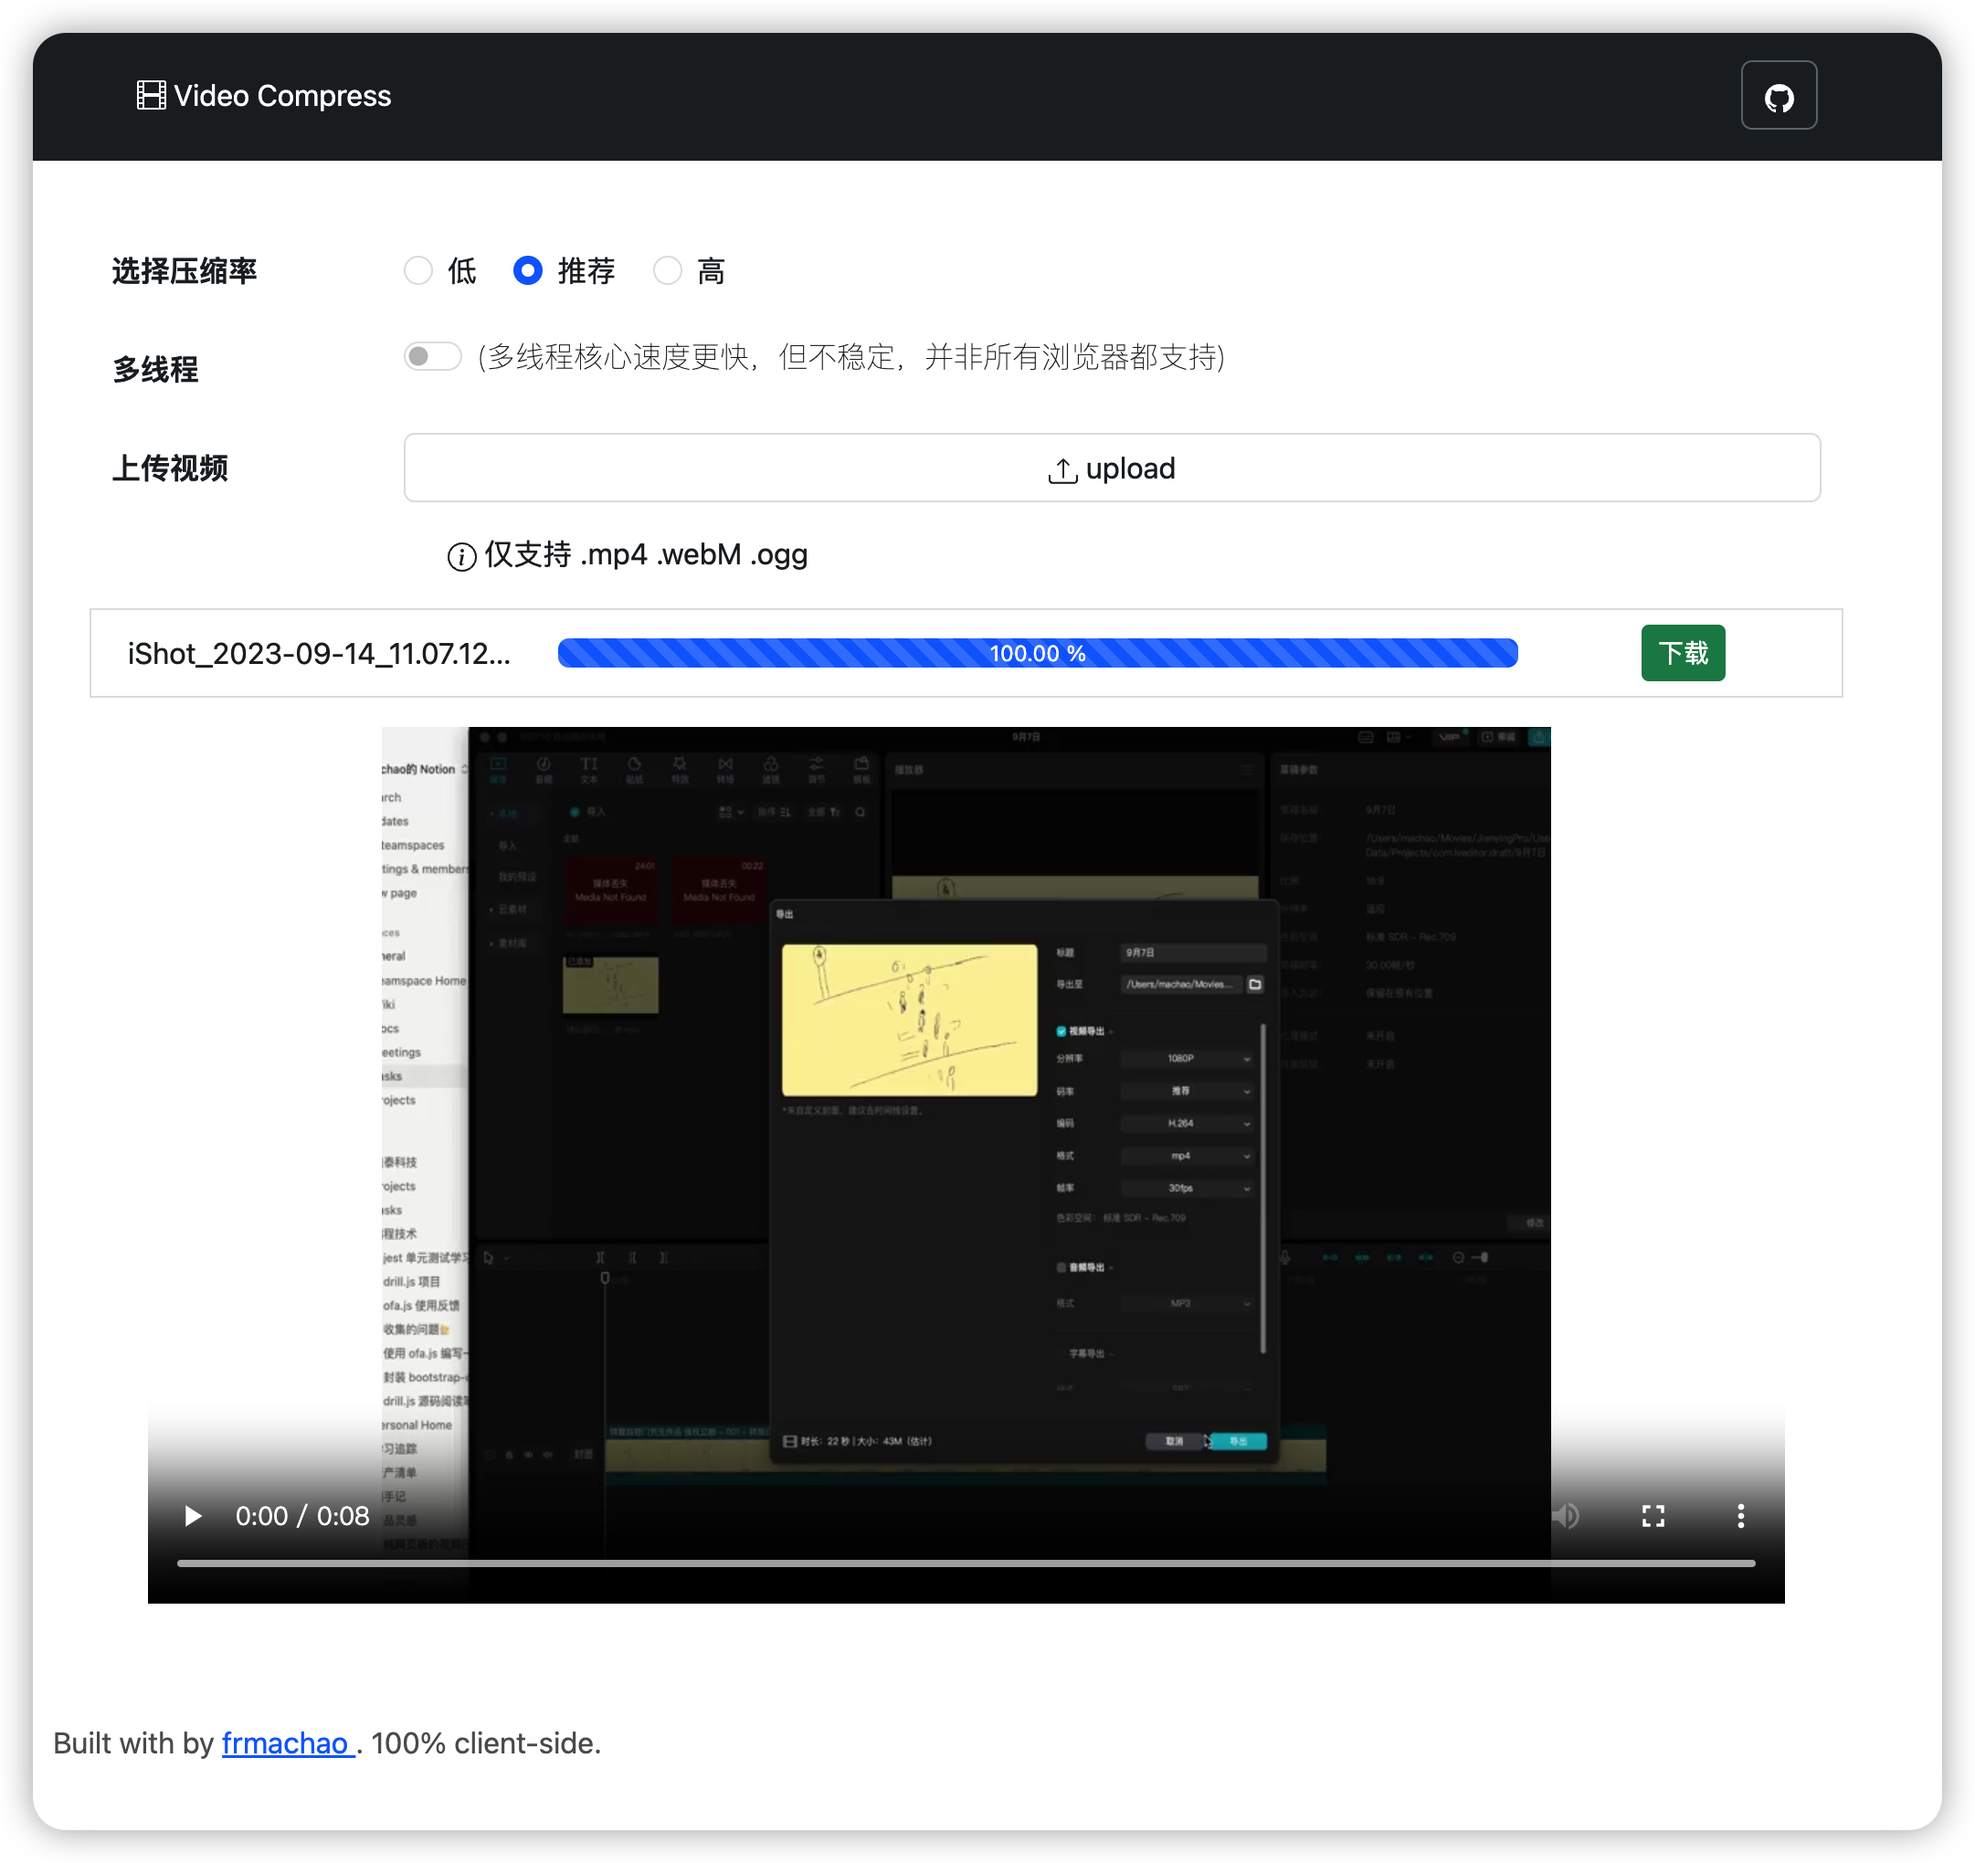
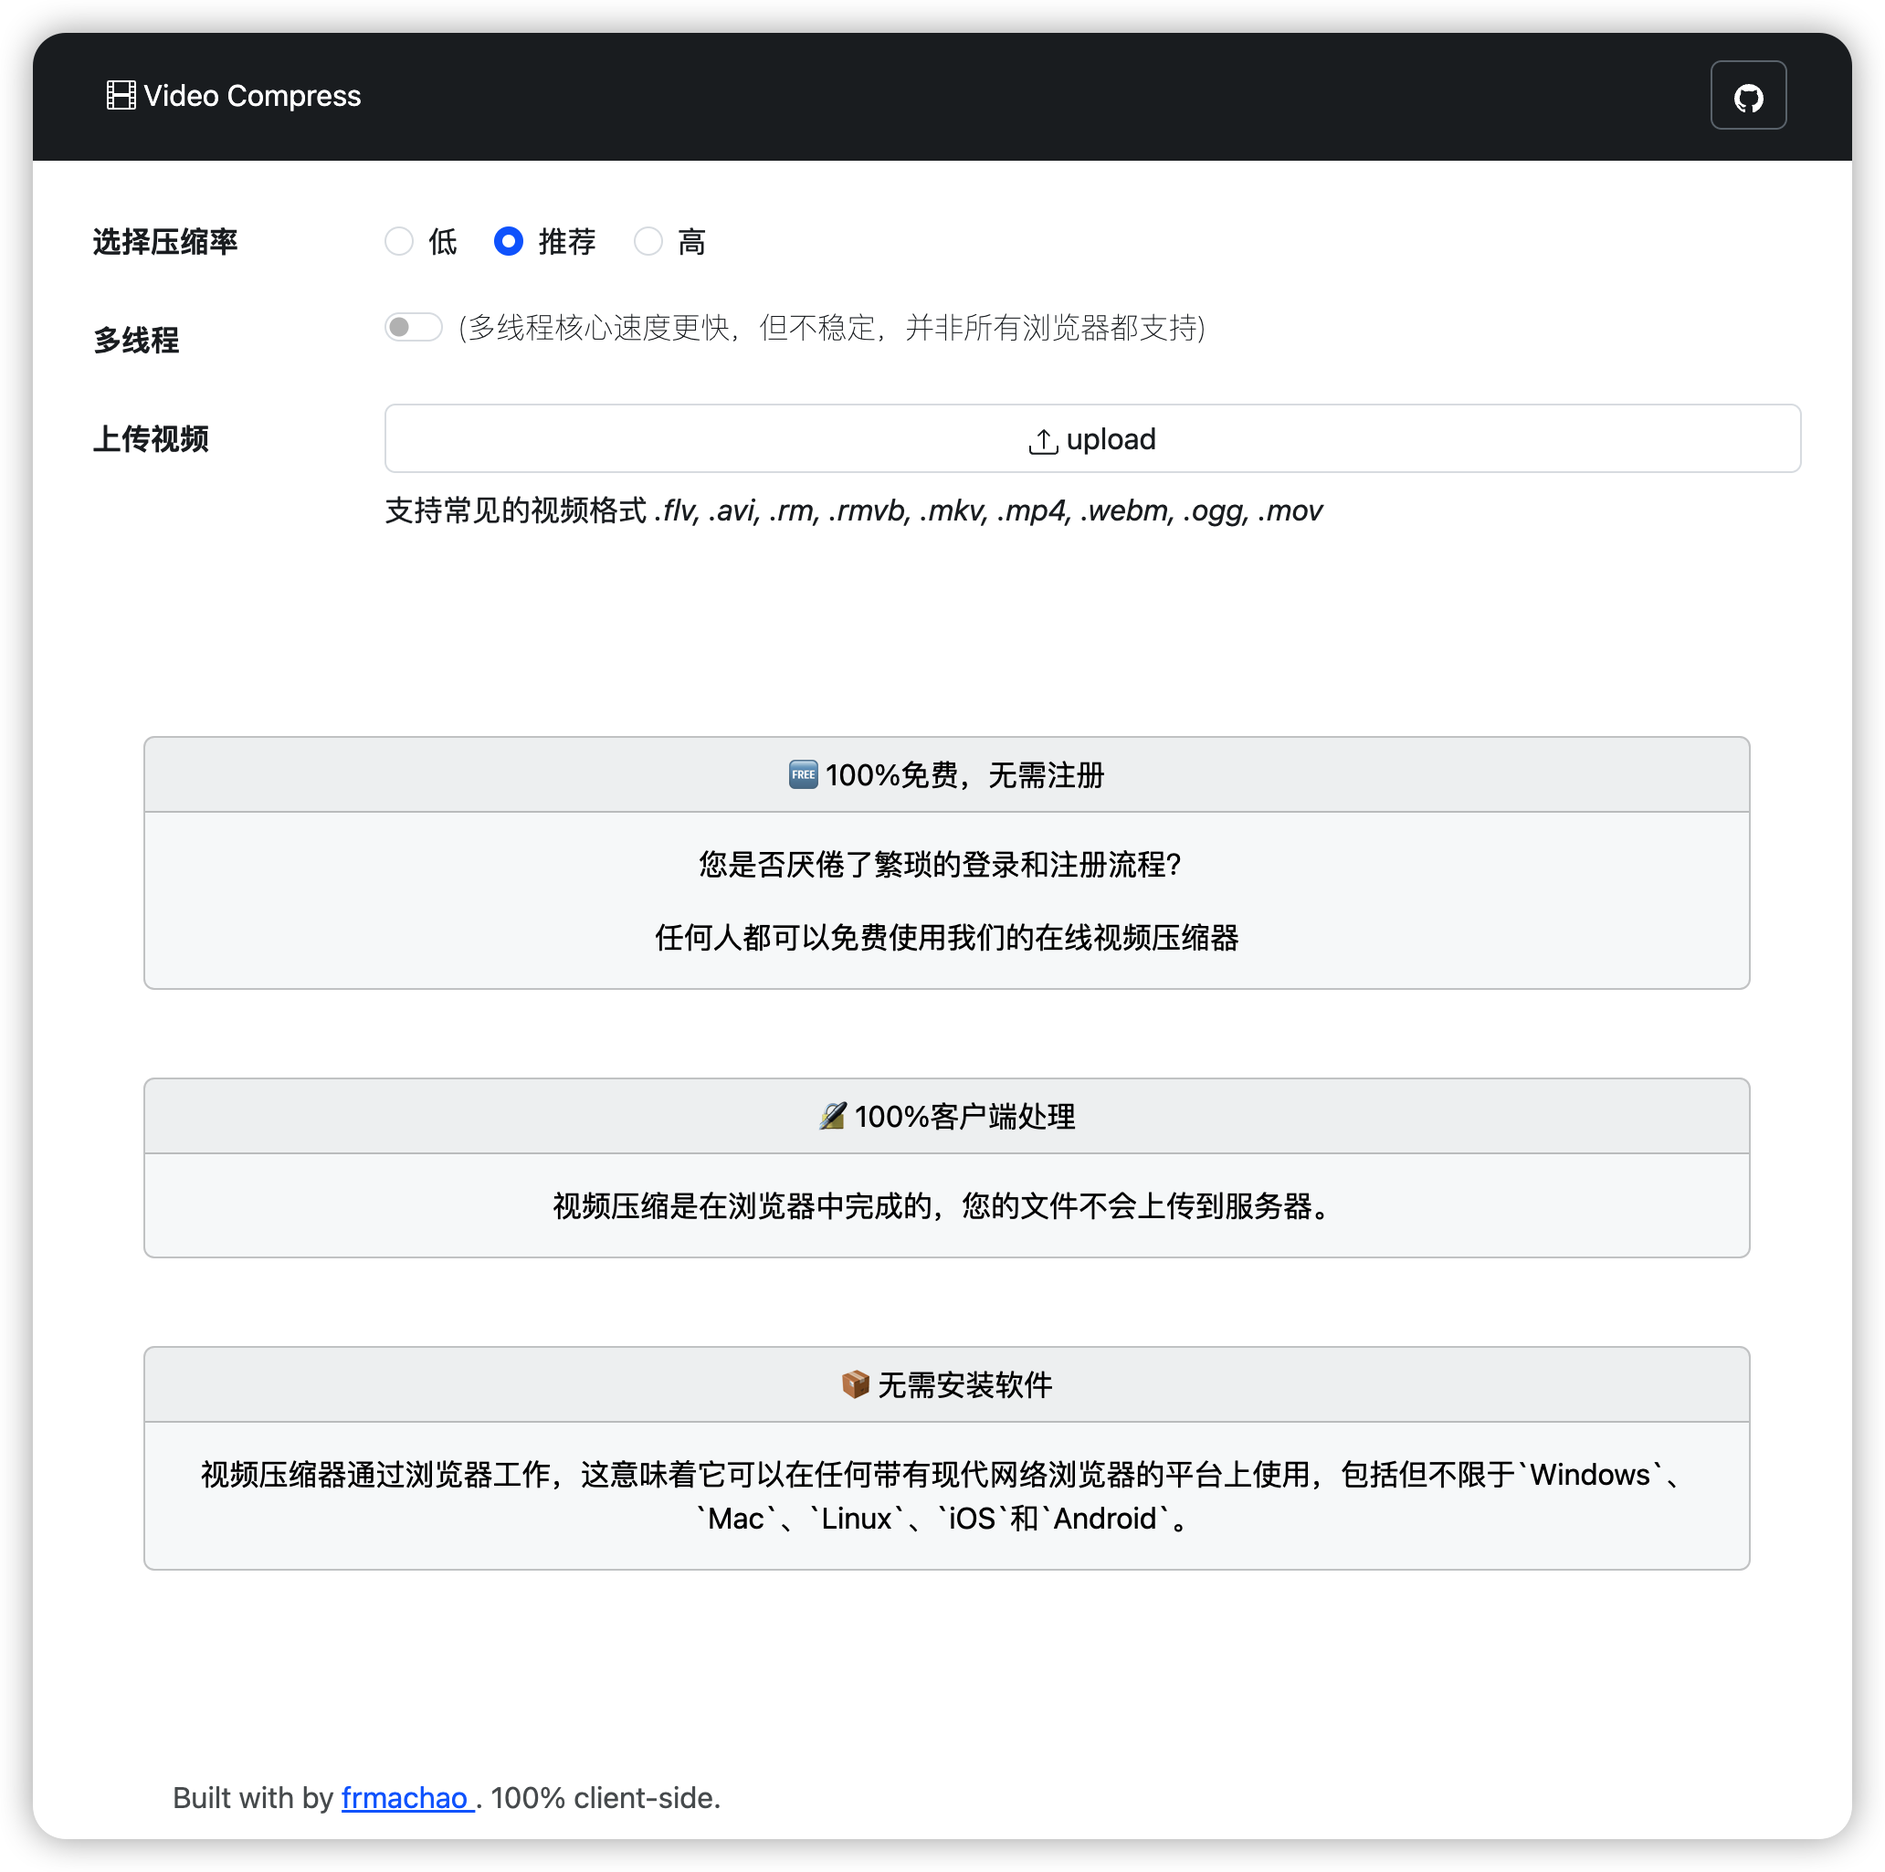
chore: add introduction to the features

diff --git a/index.html b/index.html
@@ -134,8 +134,8 @@
                 </div>
             </div>
 
-            <div style="min-height: 20rem;" class="row m-2">
-                <div hidden  id="output-tips" class="col-12 mb-2">
+            <div style="min-height: 5rem;" class="row m-2">
+                <div hidden id="output-tips" class="col-12 mb-2">
                     <svg xmlns="http://www.w3.org/2000/svg" width="16" height="16" fill="currentColor"
                         class="bi bi-info-circle" viewBox="0 0 16 16">
                         <path d="M8 15A7 7 0 1 1 8 1a7 7 0 0 1 0 14zm0 1A8 8 0 1 0 8 0a8 8 0 0 0 0 16z" />
@@ -148,9 +148,39 @@
                 </div>
                 <video hidden id="output-video" controls height="480"></video>
             </div>
+            <div class="row m-md-3 row-cols-1 text-center">
+                <div class="col-md-12">
+                    <div class="card text-bg-light mb-3 mb-md-5">
+                        <div class="card-header">🆓 100%免费，无需注册</div>
+                        <div class="card-body">
+                            <p class="card-text">您是否厌倦了繁琐的登录和注册流程？</p>
+                            <p class="card-text">任何人都可以免费使用我们的在线视频压缩器</p>
+                        </div>
+                    </div>
+                </div>
+                <div class="col-md-12">
+                    <div class="card text-bg-light mb-3 mb-md-5">
+                        <div class="card-header">🔏 100%客户端处理</div>
+                        <div class="card-body">
+                            <p class="card-text">视频压缩是在浏览器中完成的，您的文件不会上传到服务器。</p>
+                        </div>
+                    </div>
+                </div>
+                <div class="col-md-12">
+                    <div class="card  text-bg-light mb-3 mb-md-5">
+                        <div class="card-header">📦 无需安装软件</div>
+                        <div class="card-body">
+                            <p class="card-text">
+                                视频压缩器通过浏览器工作，这意味着它可以在任何带有现代网络浏览器的平台上使用，包括但不限于`Windows`、`Mac`、`Linux`、`iOS`和`Android`。
+                            </p>
+                        </div>
+                    </div>
+                </div>
+            </div>
+
         </div>
-        <footer class="container mt-auto">
-            <div class="col-md-6 d-flex align-items-center">
+        <footer class="container mt-5">
+            <div class="col-md-6 p-3 d-flex align-items-center">
                 <a href="/" class="mb-3 me-2 mb-md-0 text-white text-decoration-none lh-1">
                     <svg xmlns="http://www.w3.org/2000/svg" width="16" height="16" fill="currentColor"
                         class="me-1 bi bi-film" viewBox="0 0 16 16">
